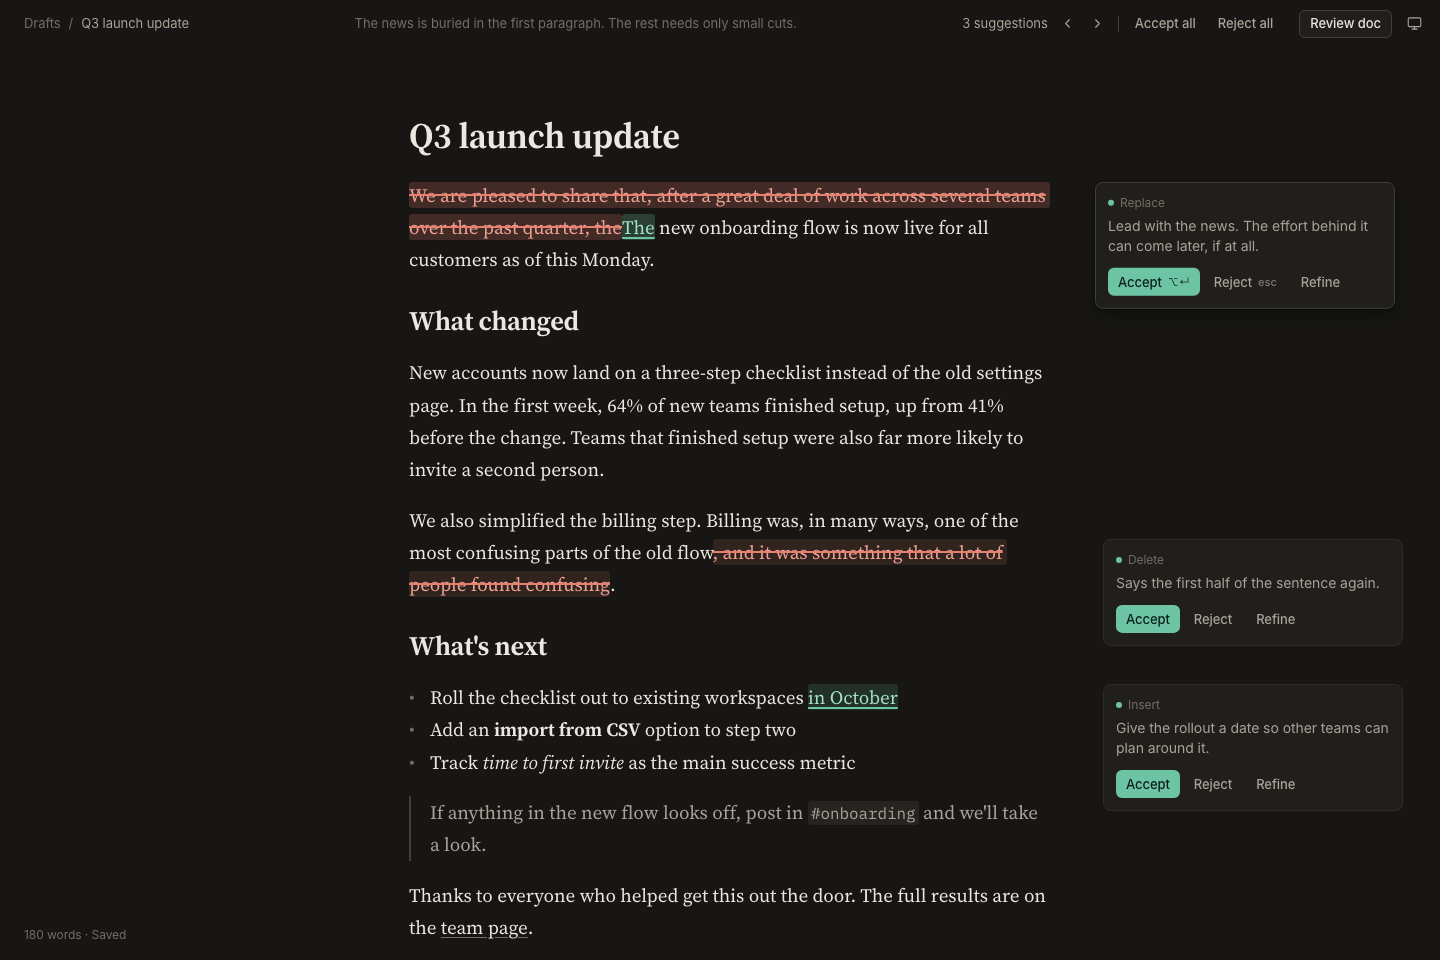
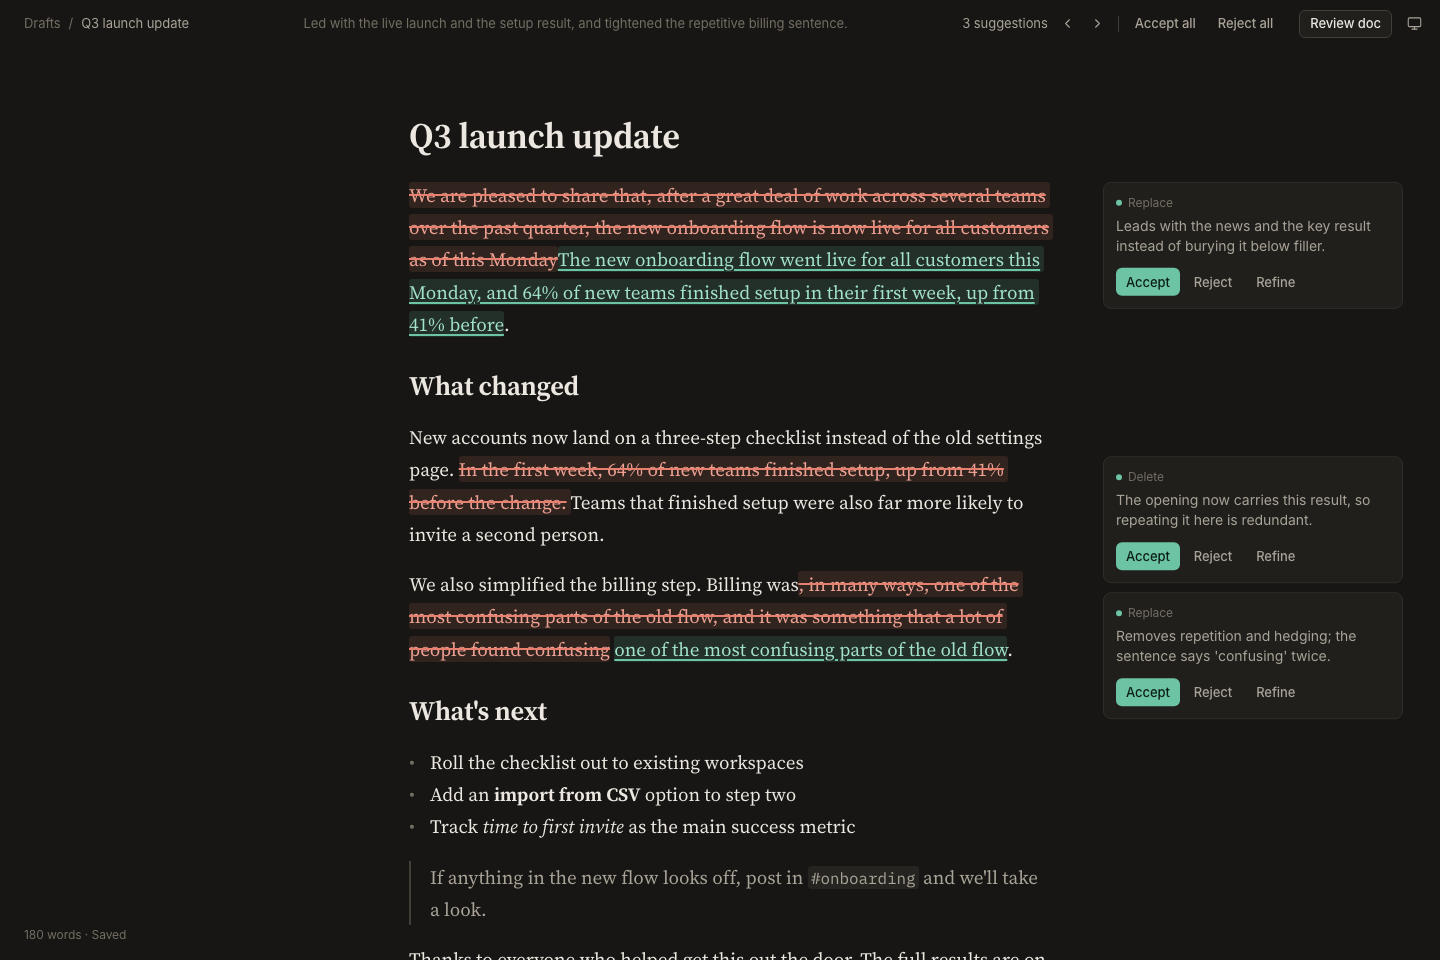
Dark screenshot from a real run; README cost updated
docs/screenshot-dark.png was the old design mock; it is now a real Review
doc run in dark mode on the sample document (Sonnet 5.5, one call,
$0.0062). README cost line now about $0.064 of $5.

diff --git a/README.md b/README.md
@@ -2,7 +2,7 @@
 
 ![Review doc on the sample document: real Sonnet 5.5 output](docs/screenshot-light.png)
 
-*Review doc on the sample document. This is real model output: two suggestions, shown inline (red struck = removed, green underlined = added), each with its reason in the margin. The document doesn't change until you accept. [Dark mode](docs/screenshot-dark.png).*
+*Review doc on the sample document. This is real model output: two suggestions, shown inline (red struck = removed, green underlined = added), each with its reason in the margin. The document doesn't change until you accept. [Dark mode](docs/screenshot-dark.png), also real output, from a separate run.*
 
 ## Run it
 
@@ -75,9 +75,10 @@ Built with Claude Code. The full sessions are in `ai-sessions/`, unedited except
 
 ## What it cost
 
-$0.057 of the $5 key, read from OpenRouter's `/api/v1/key`:
+About $0.064 of the $5 key: $0.057 read from OpenRouter's `/api/v1/key`, plus $0.006 for the last screenshot run, as reported by that call (the key's counter lags a few seconds):
 - two model-comparison runs: $0.002, then $0.030
 - browser walkthroughs and refine checks: $0.025
+- the dark-mode screenshot (one Review doc): $0.006
 
 Development and all tests run against mocks.
 
